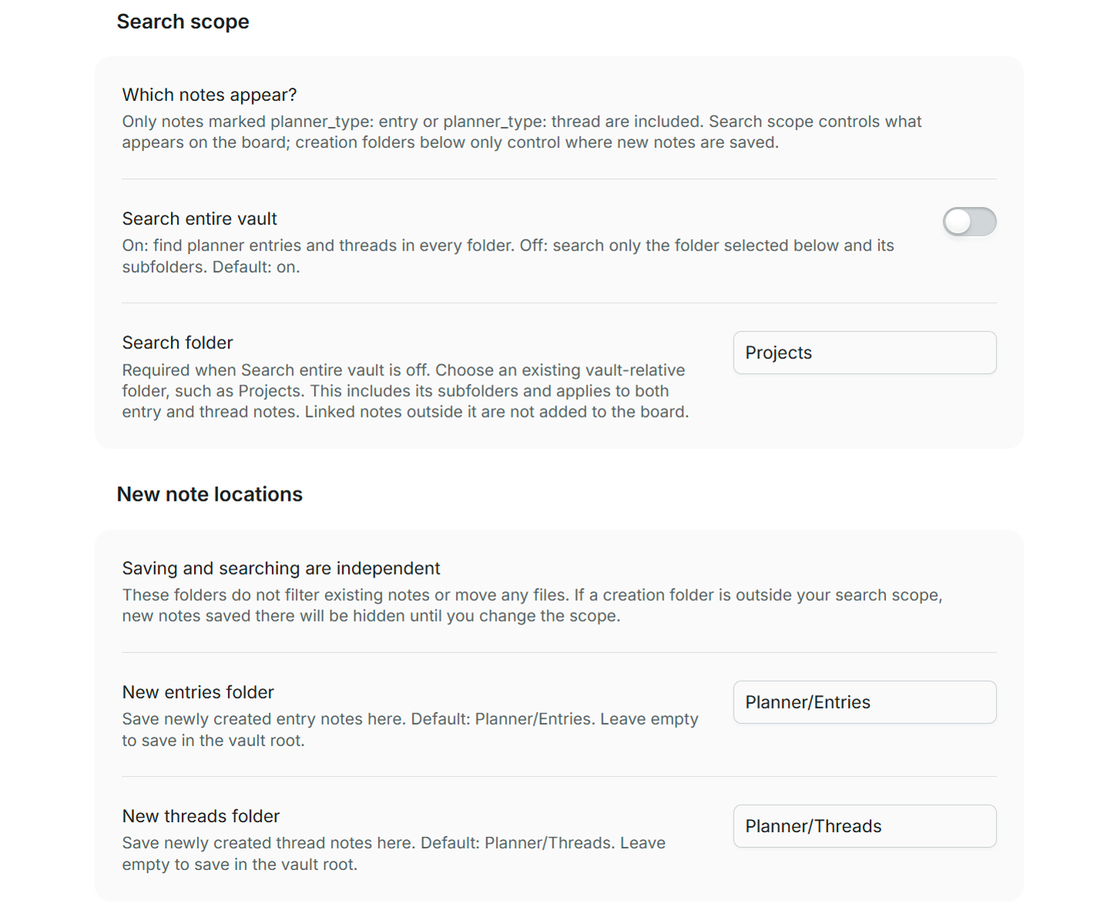
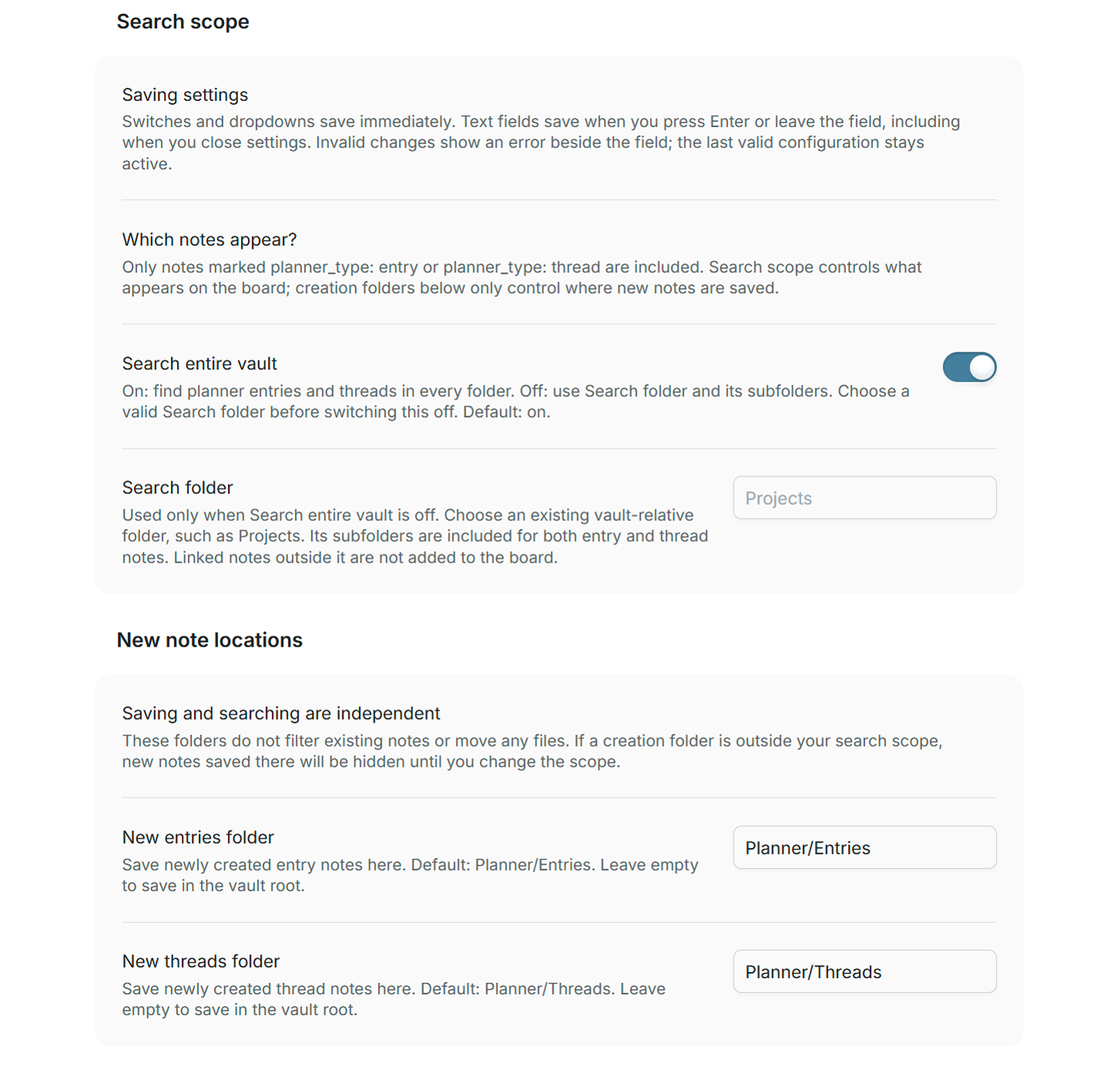
Release 0.2.2: save settings automatically

diff --git a/settings-tab.ts b/settings-tab.ts
@@ -1,53 +1,155 @@
-import { PluginSettingTab, Setting, Notice, requireApiVersion, type App, type SettingDefinitionItem } from 'obsidian';
+import { PluginSettingTab, Setting, TFolder, type App, type SettingDefinitionItem } from 'obsidian';
 import type JustSimplePlanner from './main';
-import { cloneSettings, DEFAULT_PROPERTIES, type PlannerSettings, type EntryProperty } from './settings';
+import { cloneSettings, cleanFolder, DEFAULT_PROPERTIES, ENTRY_PROPERTIES, type PlannerSettings, type EntryProperty } from './settings';
 
+type FieldKey = Exclude<keyof PlannerSettings, 'propertyNames'> | EntryProperty;
+type TextKey = Exclude<FieldKey, 'searchEntireVault' | 'dayWidth'>;
+type FieldValue = string | boolean | number;
+interface Field {
+  key: FieldKey;
+  input: HTMLElement;
+  feedback: HTMLElement;
+  get: () => FieldValue;
+  set: (value: FieldValue) => void;
+  dirty: boolean;
+  revision: number;
+  queued: number | null;
+}
 interface SettingRow { name: string; desc: string; render?: (setting: Setting) => void }
 interface SettingSection { heading: string; rows: SettingRow[] }
 
 export class PlannerSettingsTab extends PluginSettingTab {
-  private draft: PlannerSettings;
-  private folderRow: HTMLElement | null = null;
-  private feedback: Setting | null = null;
-  private saving = false;
+  private fields = new Map<FieldKey, Field>();
+  private queue: Promise<void> = Promise.resolve();
+  private saving = 0;
+  private serial = 0;
+  private synchronizing = 0;
 
-  constructor(app: App, private readonly plugin: JustSimplePlanner) { super(app, plugin); this.draft = cloneSettings(plugin.settings); }
+  constructor(app: App, private readonly plugin: JustSimplePlanner) { super(app, plugin); }
 
   getSettingDefinitions(): SettingDefinitionItem[] {
-    this.draft = cloneSettings(this.plugin.settings);
+    this.fields.clear();
     return this.sections().map(section => ({ type: 'group', heading: section.heading, items: section.rows.map(row => row.render ? { name: row.name, desc: row.desc, render: row.render } : { name: row.name, desc: row.desc }) }));
   }
 
+  // Saving one field must not remove focus or another unfinished edit.
   synchronize(): void {
-    this.draft = cloneSettings(this.plugin.settings);
-    if (requireApiVersion('1.13.0')) this.update();
-    else this.renderLegacy();
+    for (const field of this.fields.values()) if (!field.dirty) field.set(this.value(this.plugin.settings, field.key));
+  }
+
+  hide(): void {
+    for (const field of this.fields.values()) if (field.dirty) this.save(field);
+    super.hide();
+  }
+
+  private value(settings: PlannerSettings, key: FieldKey): FieldValue {
+    return ENTRY_PROPERTIES.includes(key as EntryProperty) ? settings.propertyNames[key as EntryProperty] : settings[key as Exclude<keyof PlannerSettings, 'propertyNames'>];
+  }
+
+  private assign(settings: PlannerSettings, key: FieldKey, value: FieldValue): void {
+    if (key === 'searchEntireVault') settings.searchEntireVault = Boolean(value);
+    else if (key === 'dayWidth') settings.dayWidth = Number(value);
+    else if (ENTRY_PROPERTIES.includes(key as EntryProperty)) settings.propertyNames[key as EntryProperty] = String(value);
+    else settings[key as 'entryFolder' | 'threadFolder' | 'searchFolder'] = String(value);
+  }
+
+  private track(key: FieldKey, setting: Setting, input: HTMLElement, get: Field['get'], set: Field['set']): Field {
+    const id = `jsp-setting-${key}-${++this.serial}`;
+    const feedback = setting.infoEl.createDiv({ cls: 'jsp-setting-feedback', attr: { id, role: 'status', 'aria-live': 'polite' } });
+    input.setAttribute('aria-describedby', [input.getAttribute('aria-describedby'), id].filter(Boolean).join(' '));
+    const field: Field = { key, input, feedback, get, set: value => {
+      this.synchronizing++;
+      try { set(value); } finally { this.synchronizing--; }
+    }, dirty: false, revision: 0, queued: null };
+    this.fields.set(key, field); field.set(this.value(this.plugin.settings, key));
+    return field;
+  }
+
+  private feedback(field: Field, message: string, invalid = false): void {
+    field.feedback.setText(message);
+    field.feedback.toggleClass('is-error', invalid);
+    field.input.setAttribute('aria-invalid', String(invalid));
+  }
+
+  private edit(field: Field): void {
+    field.dirty = true; field.revision++;
+    this.feedback(field, 'Press Enter or leave this field to save.');
+  }
+
+  private save(field: Field, changedValue?: FieldValue): void {
+    if (!field.dirty || field.queued === field.revision) return;
+    const revision = field.revision;
+    const value = changedValue ?? field.get();
+    field.queued = revision;
+    this.saving++;
+    this.feedback(field, 'Saving…');
+    this.queue = this.queue.then(async () => {
+      try {
+        if (field.revision !== revision) return;
+        // Merge completed edits into the latest saved settings; queued changes cannot overwrite each other.
+        const candidate = cloneSettings(this.plugin.settings);
+        this.assign(candidate, field.key, value);
+        if (field.key === 'searchFolder' && String(value).trim()) {
+          const folder = cleanFolder(String(value));
+          if (!(this.app.vault.getAbstractFileByPath(folder) instanceof TFolder)) throw new Error('Choose an existing folder inside this vault.');
+        }
+        if (this.value(this.plugin.settings, field.key) !== value) await this.plugin.applySettings(candidate);
+        if (field.revision === revision) {
+          field.dirty = false; field.set(this.value(this.plugin.settings, field.key));
+          this.feedback(field, 'Saved.');
+        }
+      } catch (error) {
+        if (field.revision !== revision) return;
+        const message = error instanceof Error ? error.message : String(error);
+        const immediate = field.key === 'searchEntireVault' || field.key === 'dayWidth';
+        if (immediate) { field.dirty = false; field.set(this.value(this.plugin.settings, field.key)); }
+        this.feedback(field, `${message} ${immediate ? 'The previous value is still active.' : 'Not saved; the previous value is still active.'}`, !immediate);
+        field.feedback.toggleClass('is-error', true);
+      } finally {
+        if (field.queued === revision) field.queued = null;
+        this.saving--;
+      }
+    });
+  }
+
+  private text(key: TextKey, name: string, desc: string, placeholder: string): SettingRow {
+    return { name, desc, render: setting => {
+      setting.addText(input => {
+        input.setPlaceholder(placeholder);
+        const field = this.track(key, setting, input.inputEl, () => input.getValue(), value => { input.setValue(String(value)); });
+        input.onChange(() => { if (!this.synchronizing) this.edit(field); });
+        input.inputEl.addEventListener('blur', () => this.save(field));
+        input.inputEl.addEventListener('keydown', event => { if (event.key === 'Enter' && !event.isComposing) { event.preventDefault(); this.save(field); } });
+      });
+    } };
   }
 
   private sections(): SettingSection[] {
-    const property = (key: EntryProperty, name: string, desc: string): SettingRow => ({
-      name, desc: `${desc}. Default: ${DEFAULT_PROPERTIES[key]}.`,
-      render: setting => { setting.addText(input => input.setPlaceholder(DEFAULT_PROPERTIES[key]).setValue(this.draft.propertyNames[key]).onChange(value => { this.draft.propertyNames[key] = value; })); },
-    });
+    const property = (key: EntryProperty, name: string, desc: string): SettingRow => this.text(key, name, `${desc}. Default: ${DEFAULT_PROPERTIES[key]}.`, DEFAULT_PROPERTIES[key]);
     return [
       {
         heading: 'Search scope', rows: [
+          { name: 'Saving settings', desc: 'Switches and dropdowns save immediately. Text fields save when you press Enter or leave the field, including when you close settings. Invalid changes show an error beside the field; the last valid configuration stays active.' },
           { name: 'Which notes appear?', desc: 'Only notes marked planner_type: entry or planner_type: thread are included. Search scope controls what appears on the board; creation folders below only control where new notes are saved.' },
           {
-            name: 'Search entire vault', desc: 'On: find planner entries and threads in every folder. Off: search only the folder selected below and its subfolders. Default: on.',
-            render: setting => { setting.addToggle(toggle => toggle.setValue(this.draft.searchEntireVault).onChange(value => { this.draft.searchEntireVault = value; this.folderRow?.toggleClass('jsp-setting-hidden', value); })); },
+            name: 'Search entire vault', desc: 'On: find planner entries and threads in every folder. Off: use Search folder and its subfolders. Choose a valid Search folder before switching this off. Default: on.',
+            render: setting => { setting.addToggle(toggle => {
+              const field = this.track('searchEntireVault', setting, toggle.toggleEl.querySelector('input') ?? toggle.toggleEl, () => toggle.getValue(), value => {
+                toggle.setValue(Boolean(value));
+                const checkbox = toggle.toggleEl.querySelector<HTMLInputElement>('input');
+                if (checkbox) checkbox.checked = Boolean(value);
+              });
+              toggle.onChange(value => { if (!this.synchronizing) { this.edit(field); this.save(field, value); } });
+            }); },
           },
-          {
-            name: 'Search folder', desc: 'Required when Search entire vault is off. Choose an existing vault-relative folder, such as Projects. This includes its subfolders and applies to both entry and thread notes. Linked notes outside it are not added to the board.',
-            render: setting => { this.folderRow = setting.settingEl; this.folderRow.toggleClass('jsp-setting-hidden', this.draft.searchEntireVault); setting.addText(input => input.setPlaceholder('Projects').setValue(this.draft.searchFolder).onChange(value => { this.draft.searchFolder = value; })); },
-          },
+          this.text('searchFolder', 'Search folder', 'Used only when Search entire vault is off. Choose an existing vault-relative folder, such as Projects. Its subfolders are included for both entry and thread notes. Linked notes outside it are not added to the board.', 'Projects'),
         ],
       },
       {
         heading: 'New note locations', rows: [
           { name: 'Saving and searching are independent', desc: 'These folders do not filter existing notes or move any files. If a creation folder is outside your search scope, new notes saved there will be hidden until you change the scope.' },
-          { name: 'New entries folder', desc: 'Save newly created entry notes here. Default: Planner/Entries. Leave empty to save in the vault root.', render: setting => { setting.addText(input => input.setPlaceholder('Vault root').setValue(this.draft.entryFolder).onChange(value => { this.draft.entryFolder = value; })); } },
-          { name: 'New threads folder', desc: 'Save newly created thread notes here. Default: Planner/Threads. Leave empty to save in the vault root.', render: setting => { setting.addText(input => input.setPlaceholder('Vault root').setValue(this.draft.threadFolder).onChange(value => { this.draft.threadFolder = value; })); } },
+          this.text('entryFolder', 'New entries folder', 'Save newly created entry notes here. Default: Planner/Entries. Leave empty to save in the vault root.', 'Vault root'),
+          this.text('threadFolder', 'New threads folder', 'Save newly created thread notes here. Default: Planner/Threads. Leave empty to save in the vault root.', 'Vault root'),
         ],
       },
       {
@@ -62,41 +164,19 @@ export class PlannerSettingsTab extends PluginSettingTab {
       },
       {
         heading: 'Display', rows: [
-          { name: 'Day width', desc: 'Default spacing between dates on the board.', render: setting => { setting.addDropdown(dropdown => dropdown.addOptions({ '140': 'Compact', '190': 'Comfortable', '250': 'Wide' }).setValue(String(this.draft.dayWidth)).onChange(value => { this.draft.dayWidth = Number(value); })); } },
-        ],
-      },
-      {
-        heading: 'Apply changes', rows: [
-          {
-            name: 'Apply settings', desc: 'Changes are saved together only when you select Apply settings. Search folder and property names are validated first. Applying settings never moves files or migrates note properties.',
-            render: setting => {
-              this.feedback = setting;
-              setting.addButton(button => button.setButtonText('Apply settings').setCta().onClick(async () => {
-                if (this.saving) return;
-                this.saving = true; button.setDisabled(true);
-                try {
-                  await this.plugin.applySettings(this.draft);
-                  this.draft = cloneSettings(this.plugin.settings);
-                  this.feedback?.setDesc(`Settings saved. Current scope contains ${this.plugin.entries.size} entries and ${this.plugin.threads.size} thread notes${this.plugin.invalid.size ? `; ${this.plugin.invalid.size} notes have an invalid or missing mapped date` : ''}. Existing note files were not changed.`);
-                  new Notice('Planner settings saved.');
-                } catch (error) {
-                  const message = error instanceof Error ? error.message : String(error);
-                  this.feedback?.setDesc(message); new Notice(message, 9000);
-                } finally { this.saving = false; button.setDisabled(false); }
-              }));
-            },
-          },
+          { name: 'Day width', desc: 'Default spacing between dates on the board.', render: setting => { setting.addDropdown(dropdown => {
+            dropdown.addOptions({ '140': 'Compact', '190': 'Comfortable', '250': 'Wide' });
+            const field = this.track('dayWidth', setting, dropdown.selectEl, () => Number(dropdown.getValue()), value => { dropdown.setValue(String(value)); });
+            dropdown.onChange(value => { if (!this.synchronizing) { this.edit(field); this.save(field, Number(value)); } });
+          }); } },
         ],
       },
     ];
   }
 
-  // Obsidian before 1.13 uses the same draft fields and help text through this fallback.
-  display(): void { this.renderLegacy(); }
-
-  private renderLegacy(): void {
-    this.draft = cloneSettings(this.plugin.settings);
-    this.containerEl.empty();
+  // Obsidian before 1.13 uses the same controls, validation and autosave handlers.
+  display(): void {
+    this.fields.clear(); this.containerEl.empty();
     for (const section of this.sections()) {
       new Setting(this.containerEl).setName(section.heading).setHeading();
       for (const row of section.rows) { const setting = new Setting(this.containerEl).setName(row.name).setDesc(row.desc); row.render?.(setting); }

diff --git a/styles.css b/styles.css
@@ -1,5 +1,7 @@
 .workspace-leaf-content[data-type="just-simple-planner"] > .view-content.jsp-container { padding: 0; overflow: hidden; }
-.setting-item.jsp-setting-hidden { display: none; }
+.jsp-setting-feedback { color: var(--text-muted); font-size: var(--font-ui-smaller); margin-top: 4px; }
+.jsp-setting-feedback:empty { display: none; }
+.jsp-setting-feedback.is-error { color: var(--text-error); }
 .jsp-view { height: 100%; display: flex; flex-direction: column; outline: none; --jsp-label-width: 220px; }
 .jsp-toolbar, .jsp-navigation { display: flex; align-items: center; flex-wrap: wrap; gap: 8px; padding: 12px 16px; border-bottom: 1px solid var(--background-modifier-border); flex-shrink: 0; background: var(--background-primary); }
 .jsp-toolbar { gap: 10px; }

diff --git a/README.md b/README.md
@@ -7,7 +7,7 @@
 A visual timeline for Obsidian: projects in rows, days in columns, and every card an ordinary Markdown note.
 
 [![Check plugin](https://github.com/DavidHurtadoAI/just-simple-planner/actions/workflows/check.yml/badge.svg)](https://github.com/DavidHurtadoAI/just-simple-planner/actions/workflows/check.yml)
-![Version](https://img.shields.io/badge/version-0.2.1-4c819a)
+![Version](https://img.shields.io/badge/version-0.2.2-4c819a)
 ![Obsidian](https://img.shields.io/badge/Obsidian-1.10.2%2B-7c3aed)
 [![License: MIT](https://img.shields.io/badge/license-MIT-16a34a)](LICENSE)
 ![Runtime dependencies](https://img.shields.io/badge/runtime_dependencies-0-0891b2)
@@ -124,11 +124,11 @@ gh attestation verify styles.css --repo DavidHurtadoAI/just-simple-planner
 
 ## Settings
 
-Settings use English labels and defaults. Edit the fields, then select **Apply settings** to validate and save them together. Existing saved creation folders and zoom are preserved on update; the default property names and whole-vault search keep existing planner notes compatible.
+Settings use English labels and defaults and save automatically. **Switches and dropdowns save immediately. Text fields save when you press Enter or leave the field, including when you close settings.** Each field shows save feedback or a validation error. Invalid changes leave the last valid configuration active; a switch or dropdown that cannot be saved returns to its active value. Existing saved creation folders and zoom are preserved on update.
 
 ### Search scope: what appears on the board
 
-**Search entire vault** is on by default. Turn it off to reveal **Search folder**, where you must enter an existing vault-relative folder. Its subfolders are included. This applies to both entries and thread notes; links to notes outside that scope do not add those notes to the board.
+**Search entire vault** is on by default. **Search folder** stays visible so you can enter and save an existing vault-relative folder before switching whole-vault search off. The folder is used only when the switch is off, and its subfolders are included. This applies to both entries and thread notes; links to notes outside that scope do not add those notes to the board. An empty or invalid folder prevents the switch from turning off, with an inline explanation.
 
 Only notes marked **`planner_type: entry`** or **`planner_type: thread`** are included. Enabling whole-vault search never turns every note into a card.
 
@@ -141,7 +141,7 @@ Only notes marked **`planner_type: entry`** or **`planner_type: thread`** are in
 
 These paths do not filter existing notes, decide thread membership, or move files. You can store notes anywhere while keeping their thread through a property. If you create a note outside the selected search folder, it is saved and a notice explains why it is hidden. A connected continuation still saves its link. Change the search scope to display it.
 
-![Search scope and independent creation folders, with folder-only search shown as an example](docs/images/settings-scope.png)
+![Whole-vault search, an always-visible Search folder and independent creation folders](docs/images/settings-scope.png)
 
 ### Property mapping: use your existing frontmatter names
 
@@ -158,7 +158,7 @@ For example, select `scheduled`, `headline`, `project` and `following` if those 
 
 **Day width** chooses the default zoom. Changes to creation folders or zoom keep the current note schema and undo history.
 
-![Configurable property names, English defaults and the explicit Apply settings button](docs/images/settings-properties.png)
+![Configurable property names and English defaults, saved automatically when editing ends](docs/images/settings-properties.png)
 
 ## Try the examples
 

diff --git a/TESTING.md b/TESTING.md
@@ -1,5 +1,15 @@
 # Validation
 
+## Automatic settings saving — 0.2.2
+
+On 2026-10-31, `npm run check` passed official Obsidian lint, strict TypeScript, all twenty-four unit tests, the build and package audit. The installed development build passed all twenty-three cases in `scripts/qa-settings.mjs`, including the existing property-mapping operations and the new autosave cases: no Apply button, immediate scope switches, recovery of an empty thread, blur/Enter/close saving, inline errors, independent edits while another field is invalid, failed-switch rollback, immediate dropdowns, preservation of unfinished text, overlapping saves with a newer edit, simulated storage failure and successful retry, and legacy rendering with autosave.
+
+Controls synchronize in place. Programmatic updates do not trigger another save, and a restored switch's native checkbox state matches its visual state. The suite restores the exact original `data.json` bytes and original Markdown, retains additive QA notes as archived, and ends with twenty entries, four threads and no captured Obsidian errors. Scope-transition checks use `Vault.rename` events; automatic incoming-link rewriting through `FileManager` is outside this suite. Focus emulation permits background rendering and is disabled after the run.
+
+README settings screenshots were refreshed from the native Settings window using temporary in-memory English defaults. Capture does not save those defaults or edit note files.
+
+The final 0.2.2 package passed central installation/verification and an in-app smoke check after loading the release build: no Apply settings button, the autosave help is present, twenty entries, four threads, no invalid notes, no pending saves and no captured errors. The saved settings file retained the same SHA-256 through installation, loading and opening/closing the settings panel.
+
 ## Release build — 0.2.1
 
 On 2026-10-31, the final 0.2.1 build passed `npm run check`, including all twenty-four tests, official Obsidian lint with zero warnings, strict TypeScript and package validation. Central installation and verification reported 0.2.1 OK. After reloading inside Obsidian, the installed plugin showed the new pan hint and adjacent New thread / New entry buttons, with twenty entries, four threads, no invalid notes and no captured errors. The saved `data.json` remained byte-for-byte unchanged through installation and reload.
@@ -54,7 +64,7 @@ Result: **14 unit tests and 12 in-app integration checks passed**. The central i
 
 `npm run check` runs the official Obsidian ESLint rules with zero warnings, strict TypeScript checking, twenty-four Node tests, the production bundle and the package audit. The tests exercise invalid dates, leap years and DST boundaries, wikilinks, cyclic/branched connections, Spotlight, date-gap preservation, overlapping cards, fenced-code task exclusion, CRLF preservation, multi-file rollback, rollback conflicts and history behavior. Settings tests cover isolated English defaults, legacy loading, folder validation and scope boundaries, independent creation folders, reserved and duplicate keys, exact mapped reads, simultaneous mapped writes, index-reset conditions and history clearing.
 
-The package audit checks matching versions, required distribution files and zero runtime dependencies. The JavaScript bundle is approximately 57.3 KiB, with Obsidian as its only external runtime module.
+The package audit checks matching versions, required distribution files and zero runtime dependencies. The JavaScript bundle is approximately 58.6 KiB, with Obsidian as its only external runtime module.
 
 ## Direct connection widgets — 2026-10-30
 

diff --git a/docs/OBSIDIAN_REVIEW.md b/docs/OBSIDIAN_REVIEW.md
@@ -16,7 +16,7 @@ Reviewed on 2026-10-30 against the official [developer policies](https://docs.ob
 - App events and persistent DOM listeners use registration helpers. Markdown previews have a render-scoped component; observers and animation frames are cleaned up. Plugin unload does not detach workspace leaves.
 - UI uses sentence case, theme variables and namespaced CSS. Inline values describe computed timeline geometry or user-selected colors. Commands have stable IDs and no default global hotkeys.
 - Settings are searchable through definitions on Obsidian 1.13+, with an imperative fallback for older supported versions. Creation paths are normalized and remain inside the vault.
-- From 0.2.0, search scope, creation folders and entry-property mapping are explained separately in English. Apply settings validates the entire draft before saving: scoped search requires an existing folder; the four keys must be distinct and cannot use the fixed marker or prototype-related reserved names. Mapped keys are used consistently for reading and writing. Configuration changes do not migrate notes; scope/schema changes clear in-memory undo/redo and reject stale in-flight reads. Saved legacy folders and zoom are preserved.
+- Search scope, creation folders and entry-property mapping are explained separately in English. Settings autosave: immediate controls save on change, text fields on blur, Enter or closing the panel. Validation errors remain beside the affected control and preserve the last valid configuration. Saves are serialized and merged into current settings so overlapping edits cannot overwrite each other; controls update in place without discarding other edits. Scoped search requires an existing folder; the four keys must be distinct and cannot use reserved names. Mapped keys are used consistently for reading and writing. Configuration changes do not migrate notes; scope/schema changes clear in-memory undo/redo and reject stale in-flight reads. Saved legacy folders and zoom are preserved.
 
 ## Privacy, licensing and packaging
 

diff --git a/.github/release-notes/0.2.2.md b/.github/release-notes/0.2.2.md
@@ -1,0 +1,11 @@
+Settings now save automatically. The Apply settings button has been removed.
+
+- **Switches and dropdowns** save as soon as you change them.
+- **Text fields** save when you press Enter, leave the field or close settings. Each field shows save feedback or a validation error.
+- **Invalid changes** keep the last valid configuration active. Switches and dropdowns return to their active value if saving fails.
+- **Search folder** stays visible, so you can choose and save a valid folder before turning off Search entire vault.
+- **Overlapping edits** are saved in order and merged into current settings. Saving one field preserves focus and unfinished text in other fields.
+
+The README and both settings screenshots have been updated. Validation includes twenty-four unit tests and twenty-three in-app settings checks, covering empty-thread recovery after scope changes, invalid mappings, overlapping saves, simulated storage failure and retry, and the legacy rendering fallback. Original demo notes and saved settings were preserved.
+
+Requires Obsidian 1.10.2 or later. Install `main.js`, `manifest.json` and `styles.css` below. GitHub Actions builds, checks, attests and verifies all three files before publishing them.

diff --git a/CHANGELOG.md b/CHANGELOG.md
@@ -1,5 +1,12 @@
 # Changelog
 
+## 0.2.2 — 2026-10-31
+
+- Remove Apply settings. Save switches and dropdowns immediately, and text fields on blur, Enter or closing settings.
+- Show inline validation and save feedback, retain the last valid configuration, and restore immediate controls when saving fails.
+- Keep Search folder visible so it can be configured before turning off whole-vault search.
+- Serialize overlapping saves without losing newer edits or rebuilding the settings controls.
+
 ## 0.2.1 — 2026-10-31
 
 - Keep New thread immediately before New entry in a single toolbar group, including when the toolbar wraps.
